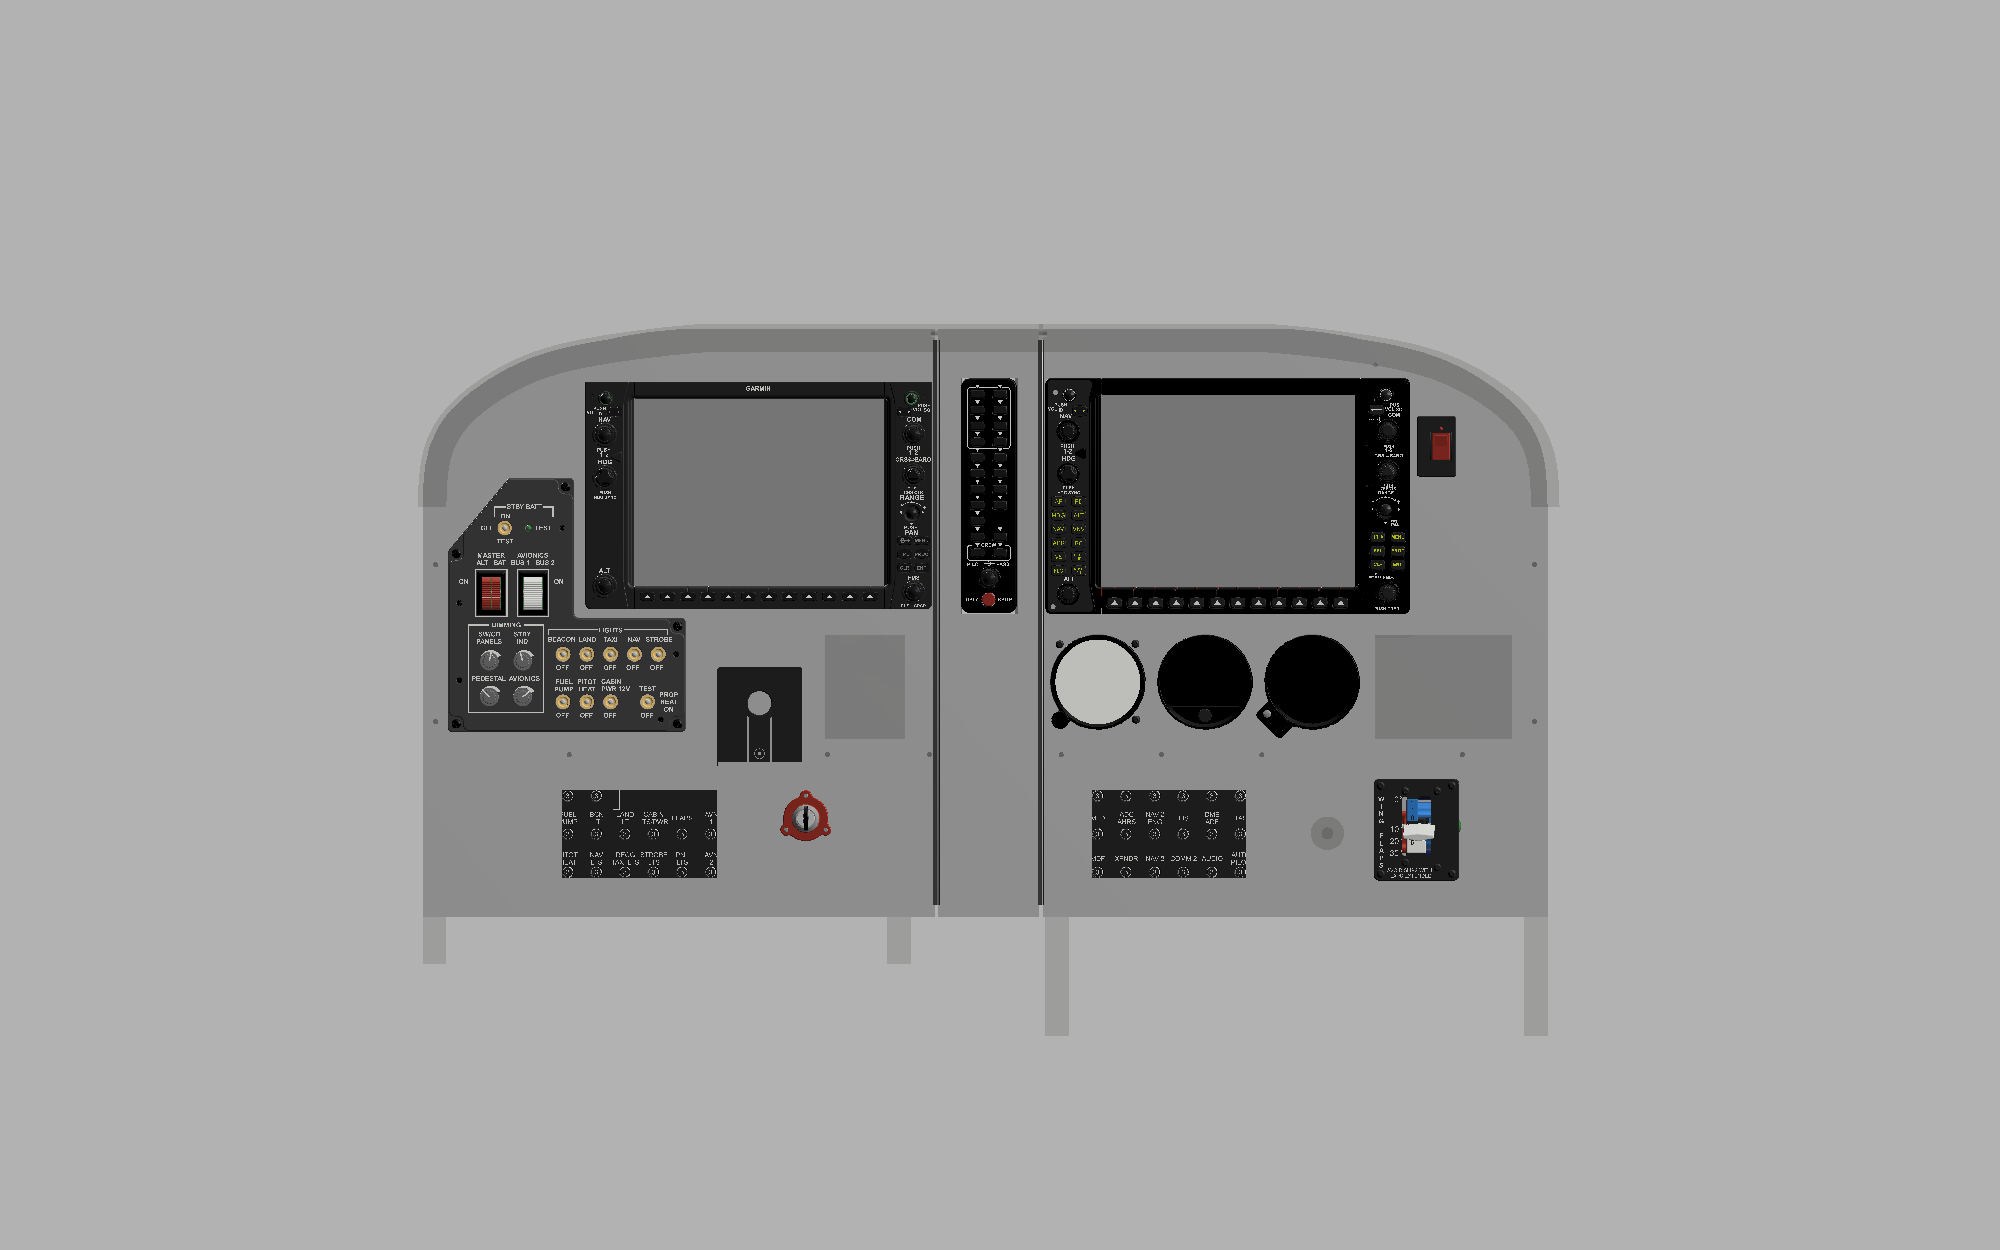
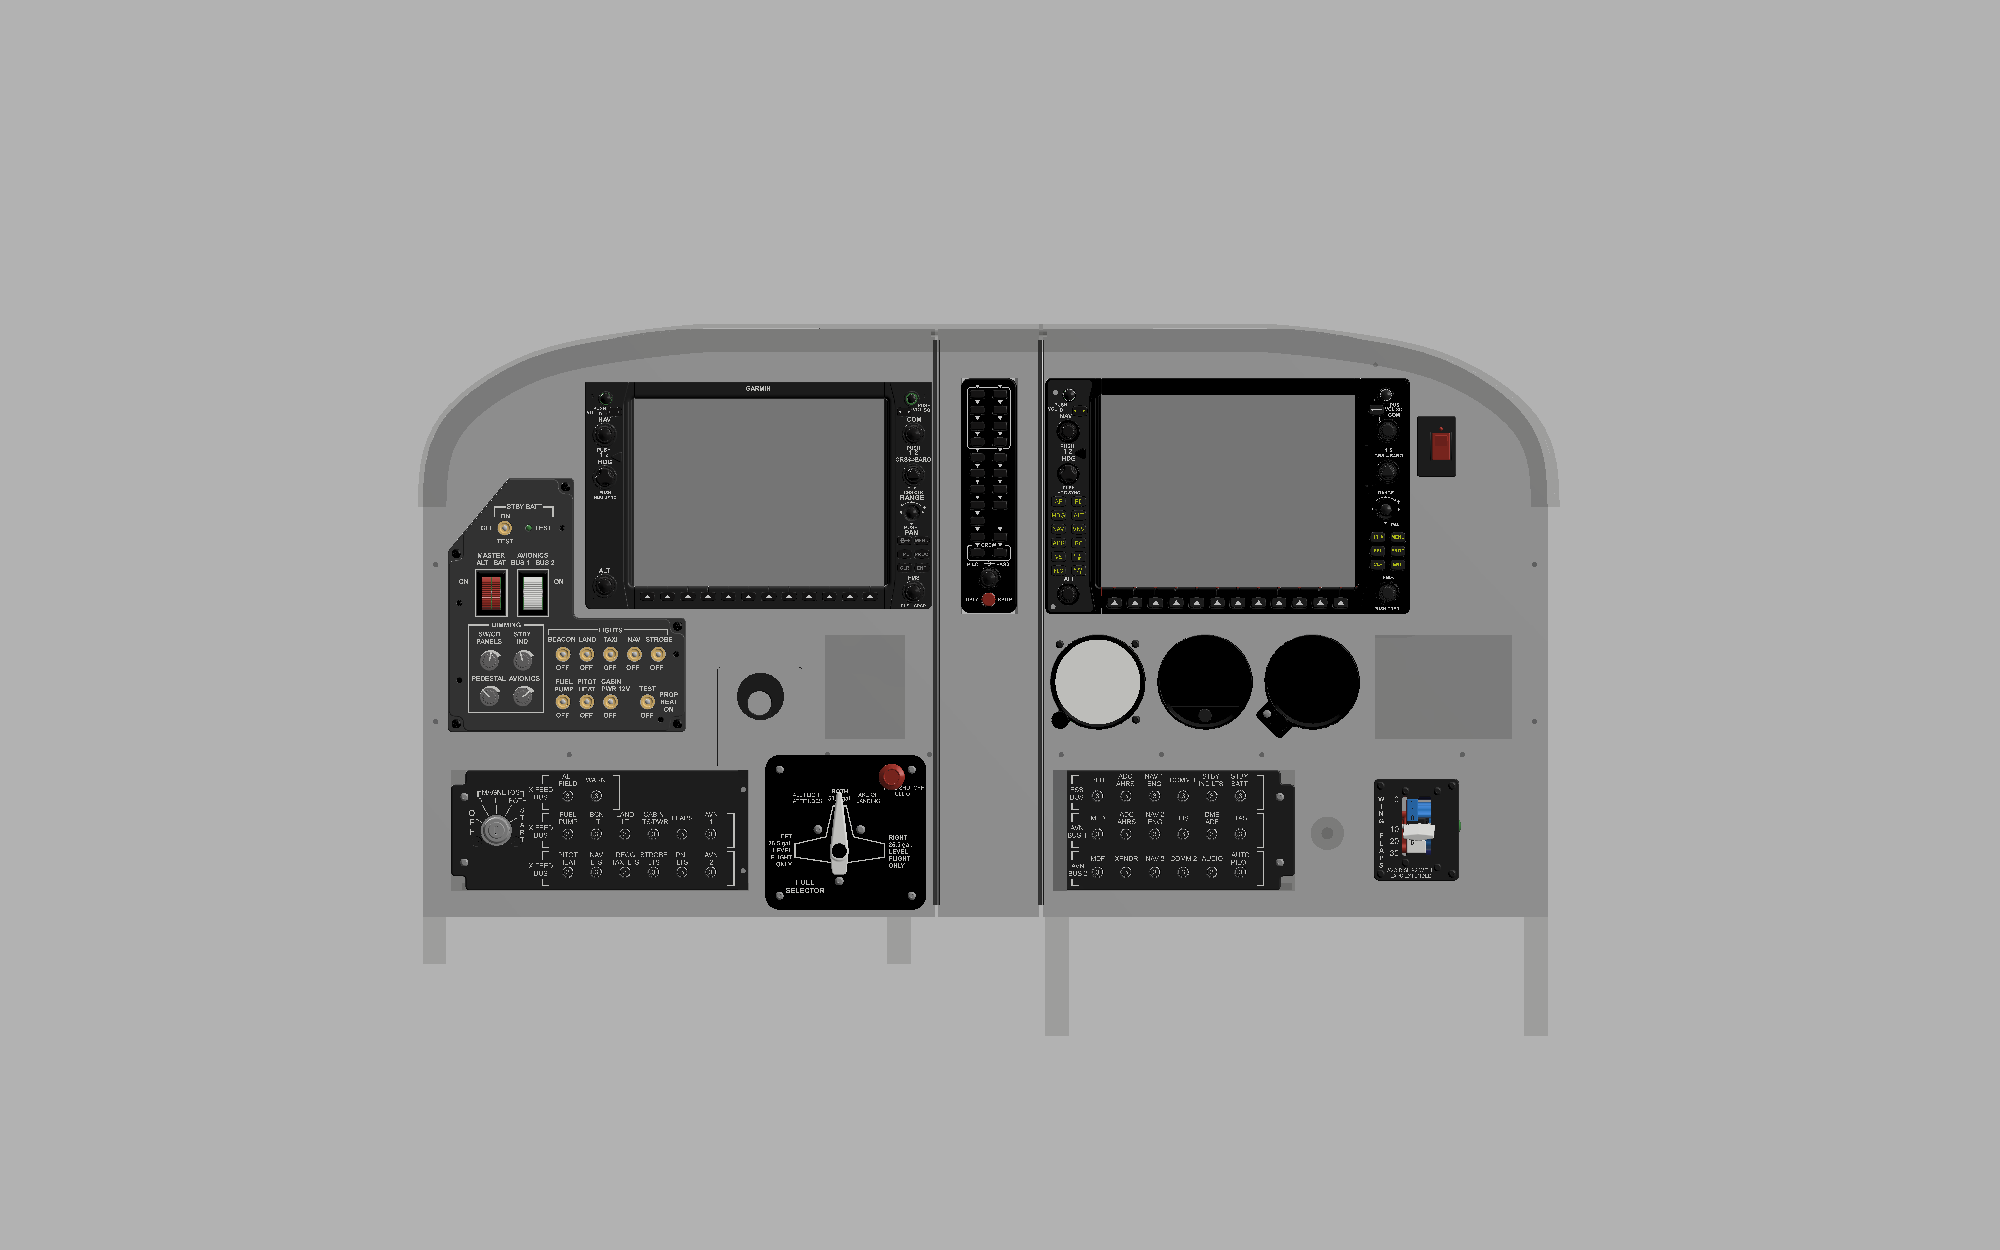
Fuel selector on the left lower panel; separate start key removed
The LHS fuse panel's own key stays. Fuse fascia cut-outs now show the whole
fascia (incl. the key). Fuel selector pod dropped, pedestal is trim wheel only.

Changed region(s): [[0.217, 0.5304, 0.465, 0.7488], [0.527, 0.5928, 0.651, 0.7176]]

diff --git a/fusion/build_lower.py b/fusion/build_lower.py
@@ -13,10 +13,9 @@ P = bcm.P
 COND = dict(u=760.0, z=-55.0, knob_d=28.0, knob_h=22.0, shaft_d=6.0, hole_d=10.0)
 # (host, u0, u1, z0, z1, depth) open-top bins behind the lower plates. Halves: inside the 2040 frame depth.
 # Spacer: shallow, because the spacer's back faces outward when folded (a deeper bin widens the closed case).
-BINS = [('Left half', 352.0, 424.0, None, -5.0, 48.5),
-        ('Spacer', 436.0, 515.0, None, -5.0, 21.5),
+BINS = [('Spacer', 436.0, 515.0, None, -5.0, 21.5),
         ('Right half', 878.0, 922.0, None, -5.0, 48.5)]
-LOWER = ('LHS Fuse panel', 'RHS Fuse Pnl', 'flaps lever', 'C172 Start sw')
+LOWER = ('LHS Fuse panel', 'RHS Fuse Pnl', 'flaps lever', 'FSP3')
 
 
 def X(u):
@@ -64,7 +63,7 @@ def build_lower():
                 o = stack.pop()
                 for b in o.bRepBodies:
                     bb = b.boundingBox
-                    if bb.minPoint.y < tp / 10.0 - 0.01 and bb.maxPoint.y > 0.01 and bb.maxPoint.z * 10 < 2:
+                    if bb.minPoint.y < 2.0 and bb.maxPoint.y > 0.01 and bb.minPoint.z * 10 < 0:   # anything within 20 mm behind the face (fascia plates sit 14 mm back)
                         lo = [min(lo[0], bb.minPoint.x), min(lo[1], bb.minPoint.z)]
                         hi = [max(hi[0], bb.maxPoint.x), max(hi[1], bb.maxPoint.z)]
                 stack.extend(list(o.childOccurrences))

diff --git a/fusion/place_vendor.py b/fusion/place_vendor.py
@@ -19,9 +19,12 @@ PLACE = {
     'Lower Panel Assy v1:1/LHS Fuse panel v1:1': ('Left half', 0.0, 12.0),
     'Lower Panel Assy v1:1/RHS Fuse Pnl v1:1':   ('Right half', 265.0, 12.0),   # off the seam: u 530-733
     'Lower Panel Assy v1:1/flaps lever v1:1':    ('Right half', 126.0, 40.0),   # u 790-872
-    'C172 Start sw v1:1':  ('Left half', 227.0, 0.0, 121.5),                    # key: from pedestal to left lower, u 300
+    # fuel selector on the left lower in the old start-key spot (Jason: keep the key that's in the LHS fuse panel).
+    # Face u 288-423, z -119..11 (overlaps the MIP bottom edge by 11 mm), face plate on the panel front; support body
+    # fits exactly between the lower 2020 rail (z -105) and the MIP panel bottom (z 0).
+    'FSP3 v1:1':           ('Left half', 125.0, 8.0, 145.0),
 }
-LOWER = ('LHS Fuse panel', 'RHS Fuse Pnl', 'flaps lever', 'C172 Start sw')
+LOWER = ('LHS Fuse panel', 'RHS Fuse Pnl', 'flaps lever', 'FSP3')
 REMOVABLE = ('dUAL kNOB',)     # knobs that come off for travel (GMA volume knob)
 
 

diff --git a/fusion/build_storage.py b/fusion/build_storage.py
@@ -157,7 +157,8 @@ def build_storage():
         mo.isGroundToParent = True
         return po
 
-    pod(FUEL_POD, 'Fuel selector pod (clamp-on)', (-69.0, -75.0, -66.0), (69.0, -8.0, 66.0))   # tucked between MFD, rail and the corner curve
+    # fuel selector now lives on the panel (left lower), so only the trim wheel is a clamp-on pod
+    # pod(FUEL_POD, 'Fuel selector pod (clamp-on)', (-69.0, -75.0, -66.0), (69.0, -8.0, 66.0))   # tucked between MFD, rail and the corner curve
     pod(TRIM_POD, 'Trim wheel pod (clamp-on)', (-41.5, -130.0, -90.0), (41.5, 0.0, 90.0))
     print('storage: tubs to %.0f mm behind face, pockets %d, stowed quadrant/base/pods' % (S['tub_back'], len(P['pockets'])))
 
